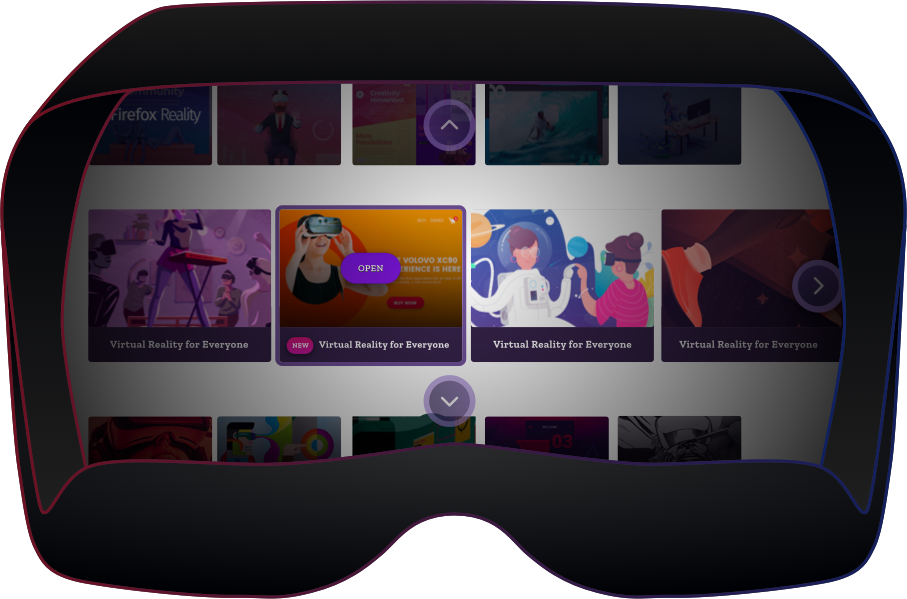
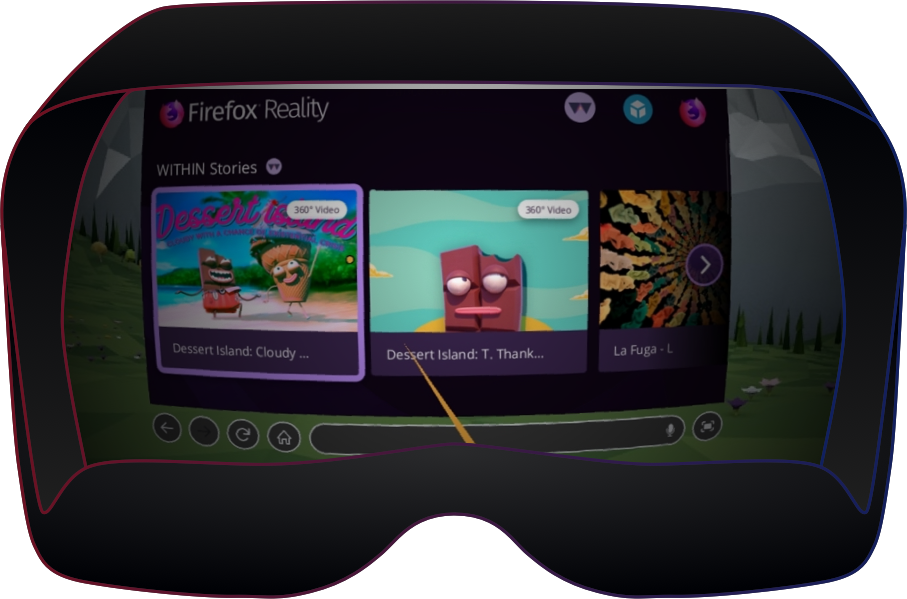
new images & copy
- adding photos
- new headline copy

diff --git a/src/pages/firefox-reality/components/_discover.js b/src/pages/firefox-reality/components/_discover.js
@@ -2,11 +2,14 @@ import React from 'react';
 import PropTypes from 'prop-types';
 
 // images
-import exp1 from '../img/discover/exp1.png';
-import exp2 from '../img/discover/exp2.png';
-import exp3 from '../img/discover/exp3.png';
-import exp4 from '../img/discover/exp4.png';
-import exp5 from '../img/discover/exp5.png';
+import dance from '../img/discover/dance.jpg';
+import dessert from '../img/discover/dessert.jpg';
+import future from '../img/discover/future.jpg';
+import mrnomnom from '../img/discover/mrnomnom.jpg';
+import opera from '../img/discover/opera.png';
+import pirate from '../img/discover/pirate.jpeg';
+import thegirl from '../img/discover/thegirl.jpeg';
+import waikiki from '../img/discover/waikiki.jpg';
 
 const DiscoverItem = props => {
   const style = {
@@ -27,57 +30,31 @@ const DiscoverItem = props => {
 
 const Discover = () => (
   <div className="fxr-discover">
-    <h1>Discover the Immersive Web</h1>
+    <h2>Content Served Fresh</h2>
     <p>
-      Open Firefox Reality to be presented with the best immersive games,
-      videos, environments and experiences from around the web.
+      Firefox Reality serves you the very best immersive games, videos,
+      environments and experiences from around the web.
     </p>
     <div className="fxr-discover__grid first">
+      <DiscoverItem img={opera} tag="360° Panorama" desc="Opera House" />
       <DiscoverItem
-        img={exp1}
-        tag="360 Video"
-        desc="Virtual Reality for Everyone"
+        img={dessert}
+        tag="360° Video"
+        desc="Dessert Island: T. Thanks A Lot"
       />
-      <DiscoverItem
-        img={exp2}
-        tag="Interactive"
-        desc="Virtual Reality for Everyone"
-      />
-      <DiscoverItem
-        img={exp3}
-        tag="Interactive"
-        desc="Virtual Reality for Everyone"
-        new
-      />
-      <DiscoverItem
-        img={exp4}
-        tag="180 Video"
-        desc="Virtual Reality for Everyone"
-      />
+      <DiscoverItem img={pirate} tag="3D Model" desc="Pirate Tower" new />
+      <DiscoverItem img={mrnomnom} tag="VR Game" desc="Mr Nom Nom" />
     </div>
     <div className="fxr-discover__grid reverse">
+      <DiscoverItem img={future} tag="360° Video" desc="I Saw the Future" new />
+      <DiscoverItem img={dance} tag="360° Music Video" desc="Dance Tonight" />
       <DiscoverItem
-        img={exp5}
-        tag="180 Video"
-        desc="Virtual Reality for Everyone"
+        img={thegirl}
+        tag="3D Model"
+        desc="The Girl who found pearls..."
         new
       />
-      <DiscoverItem
-        img={exp3}
-        tag="Interactive"
-        desc="Virtual Reality for Everyone"
-        new
-      />
-      <DiscoverItem
-        img={exp2}
-        tag="360 Video"
-        desc="Virtual Reality for Everyone"
-      />
-      <DiscoverItem
-        img={exp1}
-        tag="Interactive"
-        desc="Virtual Reality for Everyone"
-      />
+      <DiscoverItem img={waikiki} tag="360° Panorama" desc="Waikiki Jetty" />
     </div>
   </div>
 );

diff --git a/src/pages/firefox-reality/components/_designed.js b/src/pages/firefox-reality/components/_designed.js
@@ -5,10 +5,10 @@ import goggles from '../img/designed/goggles.png';
 
 const Designed = () => (
   <div className="fxr-designed">
-    <h1>Designed for Virtual Reality</h1>
+    <h2>Designed from the Virtual Ground Up</h2>
     <p>
-      Built from the ground up to handle all of the new opportunities (and
-      challenges) that come with browsing in VR.
+      Firefox Reality was specifically designed to tackle all of the new
+      opportunities (and challenges) that come with browsing in VR.
     </p>
     <img
       className="mt10"

diff --git a/src/styles/pages/_firefoxreality.scss b/src/styles/pages/_firefoxreality.scss
@@ -8,6 +8,11 @@
     @include typesize(2);
   }
 
+  h2 {
+    font-family: 'Open Sans', $sans-serif;
+    @include typesize(2);
+  }
+
   @include bp(medium) {
     h1 {
       @include typesize(3);
@@ -24,7 +29,7 @@
   overflow: hidden;
 
   h1 {
-    @include typesize(2);
+    @include typesize(3);
   }
 
   @include bp(medium) {

diff --git a/src/pages/firefox-reality/components/_hero.js b/src/pages/firefox-reality/components/_hero.js
@@ -13,7 +13,7 @@ const hero = () => (
     <div className="fxr-hero__bg" style={bgStyle} />
     <div className="fxr-hero__content">
       <img className="fxr-hero__logo" alt="Firefox Reality" src={logo} />
-      <h1>A new browser for virtual reality.</h1>
+      <h1>Enter the Third Dimension.</h1>
     </div>
   </div>
 );

diff --git a/src/pages/firefox-reality/components/_download.js b/src/pages/firefox-reality/components/_download.js
@@ -4,7 +4,6 @@ import PropTypes from 'prop-types';
 // images
 import oculus from '../img/download/oculus.svg';
 import daydream from '../img/download/daydream.svg';
-import htc from '../img/download/htc.svg';
 
 const style = {
   border: 'none',
